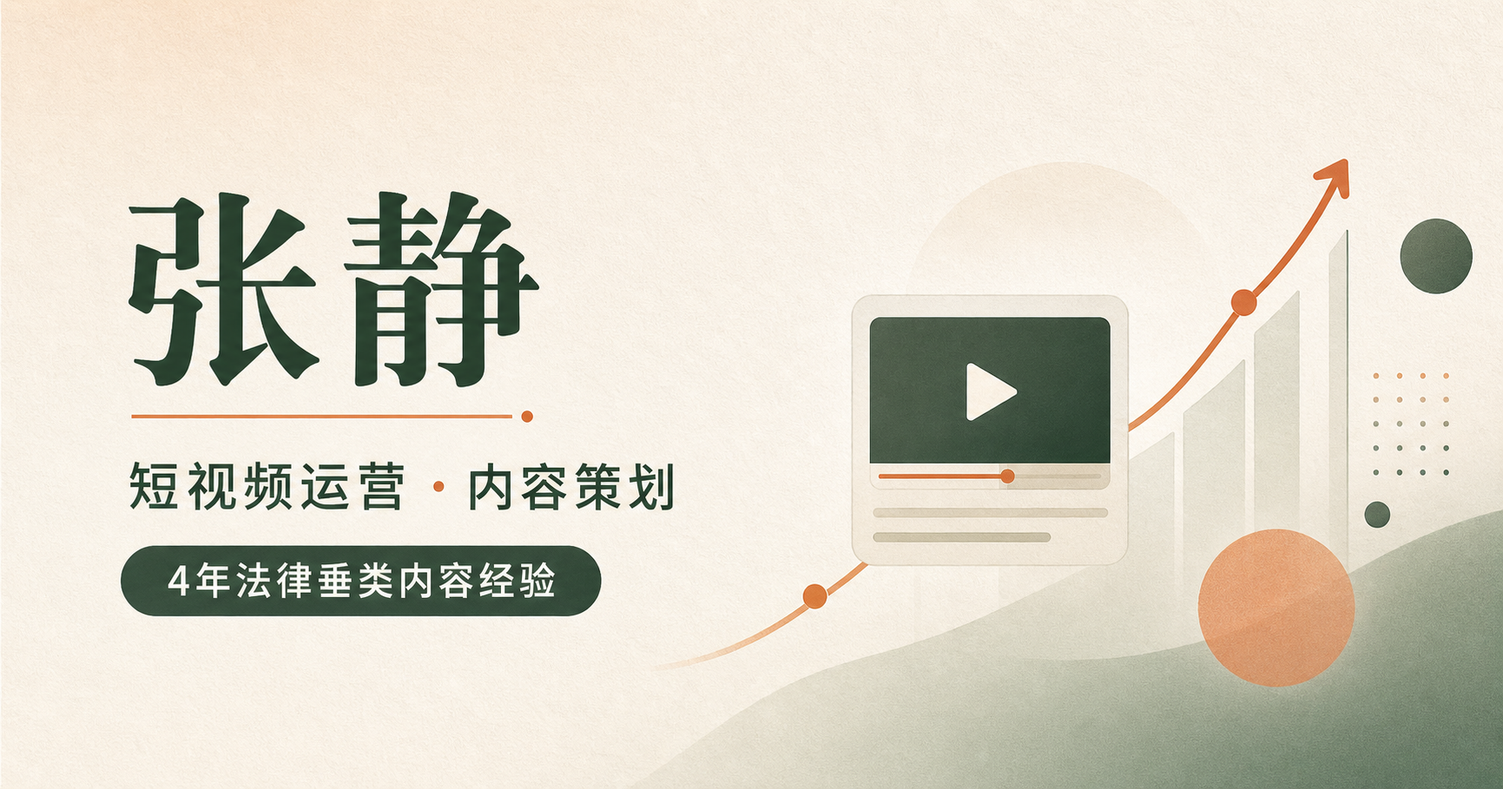
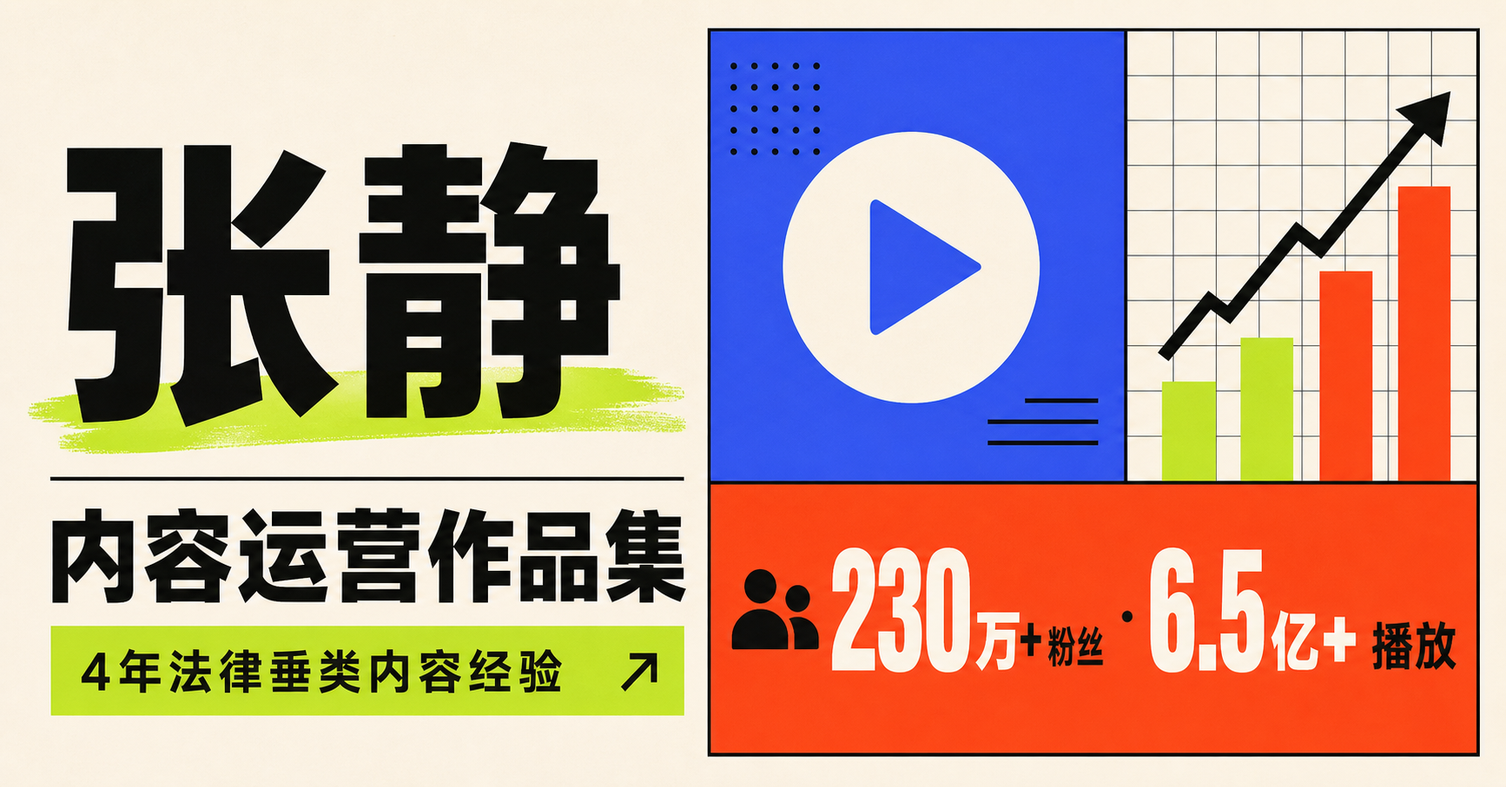
更新内容创作者作品集首页

diff --git a/index.html b/index.html
@@ -1,48 +1,2 @@
-<!doctype html>
-<html lang="zh-CN">
-<head>
-  <meta charset="utf-8">
-  <meta name="viewport" content="width=device-width,initial-scale=1">
-  <meta name="description" content="张静｜4年短视频运营与内容策划经验，专注法律垂类IP孵化、内容增长与转化。">
-  <link rel="canonical" href="https://1968532942-collab.github.io/zhangjing-resume/">
-  <meta property="og:type" content="website">
-  <meta property="og:locale" content="zh_CN">
-  <meta property="og:title" content="张静｜短视频运营 · 内容策划">
-  <meta property="og:description" content="4年法律垂类内容经验｜IP孵化、内容增长与业务转化">
-  <meta property="og:url" content="https://1968532942-collab.github.io/zhangjing-resume/">
-  <meta property="og:image" content="https://1968532942-collab.github.io/zhangjing-resume/share-card.png">
-  <meta property="og:image:width" content="1732">
-  <meta property="og:image:height" content="910">
-  <meta property="og:image:alt" content="张静｜短视频运营 · 内容策划">
-  <meta name="twitter:card" content="summary_large_image">
-  <meta name="twitter:title" content="张静｜短视频运营 · 内容策划">
-  <meta name="twitter:description" content="4年法律垂类内容经验｜IP孵化、内容增长与业务转化">
-  <meta name="twitter:image" content="https://1968532942-collab.github.io/zhangjing-resume/share-card.png">
-  <title>张静｜短视频运营 · 内容策划</title>
-  <style>
-    :root{--paper:#f4eee3;--ink:#1d211d;--muted:#686357;--green:#23352c;--orange:#c45d32;--orange-dark:#91401f;--card:rgba(255,251,244,.8);--line:rgba(40,33,25,.1);--shadow:0 18px 48px rgba(55,36,18,.09)}
-    *{box-sizing:border-box}html{scroll-behavior:smooth;scroll-padding-top:96px}body{margin:0;color:var(--ink);background:radial-gradient(circle at 8% 2%,rgba(196,93,50,.14),transparent 27rem),radial-gradient(circle at 94% 20%,rgba(35,53,44,.11),transparent 25rem),linear-gradient(180deg,#f7f1e8 0%,var(--paper) 48%,#eee3d3 100%);font-family:"PingFang SC","Microsoft YaHei",system-ui,sans-serif;line-height:1.75}a{color:inherit;text-decoration:none}.shell{width:min(calc(100% - 40px),1160px);margin:auto}
-    .topbar{position:sticky;top:0;z-index:20;border-bottom:1px solid rgba(36,43,37,.07);background:rgba(247,241,232,.86);backdrop-filter:blur(18px)}.nav-inner{min-height:76px;display:flex;align-items:center;justify-content:space-between;gap:28px}.brand{display:flex;align-items:center;gap:13px}.brand-mark{display:grid;place-items:center;width:44px;height:44px;border-radius:50%;background:linear-gradient(145deg,var(--orange),#e3a06e);color:#fff9f1;box-shadow:0 10px 25px rgba(196,93,50,.24);font-weight:800}.brand strong,.brand small{display:block}.brand strong{letter-spacing:.08em}.brand small{color:var(--muted);font-size:.75rem;margin-top:-3px}nav{display:flex;gap:28px;color:var(--muted);font-size:.92rem}nav a:hover{color:var(--orange-dark)}
-    .hero{padding:54px 0 22px}.hero-card{position:relative;overflow:hidden;padding:62px 58px 30px;border:1px solid var(--line);border-radius:40px;background:linear-gradient(145deg,rgba(255,252,246,.96),rgba(244,233,217,.84));box-shadow:0 28px 76px rgba(55,36,18,.13)}.hero-card:before{content:"ZHANG JING";position:absolute;right:-12px;top:18px;color:rgba(35,53,44,.045);font-size:clamp(4rem,10vw,8.5rem);line-height:.9;font-weight:900}.eyebrow,.kicker{position:relative;z-index:1;color:var(--orange-dark);font-size:.76rem;font-weight:800;letter-spacing:.14em}.eyebrow{display:inline-flex;padding:8px 15px;border-radius:999px;background:rgba(196,93,50,.08);border:1px solid rgba(196,93,50,.16)}h1,h2,blockquote{font-family:"Songti SC","STSong",serif}h1{position:relative;z-index:1;max-width:900px;margin:24px 0 0;font-size:clamp(2.7rem,6vw,4.7rem);line-height:1.14;letter-spacing:-.045em}h1 em{color:var(--orange);font-style:normal}.hero-copy{position:relative;z-index:1;max-width:720px;margin:24px 0 0;color:var(--muted);font-size:1.08rem}.hero-line{position:relative;z-index:1;margin:17px 0 0;font:600 clamp(1.14rem,2vw,1.45rem)/1.6 "Songti SC",serif;color:var(--green)}.hero-line b{color:var(--orange)}.actions{position:relative;z-index:1;display:flex;flex-wrap:wrap;gap:13px;margin-top:29px}.button{min-height:52px;display:inline-flex;align-items:center;justify-content:center;padding:0 24px;border-radius:999px;font-weight:700}.primary{color:#fff8ef;background:var(--green)}.secondary{border:1px solid rgba(35,53,44,.18);background:rgba(255,255,255,.38);color:var(--green)}.stats{position:relative;z-index:1;display:grid;grid-template-columns:repeat(4,1fr);gap:12px;margin-top:43px}.stats div{padding:18px;border:1px solid rgba(35,53,44,.07);border-radius:17px;background:rgba(255,255,255,.46)}.stats strong{display:block;color:var(--green);font-family:ui-monospace,Consolas,monospace;font-size:1.42rem}.stats span{display:block;margin-top:3px;color:var(--muted);font-size:.82rem}
-    .section{padding:72px 0 0}.section-head{display:flex;align-items:end;justify-content:space-between;gap:30px;margin-bottom:27px}.section-head h2,.education h2,.contact h2{margin:8px 0 0;font-size:clamp(1.9rem,3.5vw,2.8rem);line-height:1.22}.section-head>p{max-width:510px;margin:0;color:var(--muted)}.grid3{display:grid;grid-template-columns:repeat(3,1fr);gap:18px}.card{border:1px solid var(--line);border-radius:27px;background:var(--card);box-shadow:var(--shadow)}.capability{padding:30px}.number{color:var(--orange);font:700 .78rem/1 ui-monospace,monospace}.capability h3{margin:17px 0 0;font-size:1.32rem}.capability p,.case>p,.timeline p{color:var(--muted)}.tags{display:flex;flex-wrap:wrap;gap:7px;margin-top:20px}.tags span,.label{padding:6px 10px;border-radius:999px;background:rgba(196,93,50,.08);color:var(--orange-dark);font-size:.76rem;font-weight:700}
-    .experience{display:grid;grid-template-columns:1.15fr .85fr;gap:18px}.timeline{padding:35px}.timeline article{display:grid;grid-template-columns:135px 1fr;gap:22px;padding:25px 0;border-top:1px solid var(--line)}.timeline article:first-child{padding-top:0;border-top:0}.timeline time{color:var(--orange);font:700 .79rem/1.6 ui-monospace,monospace}.timeline h3{margin:0;font-size:1.1rem}.role{color:var(--orange-dark);font-size:.84rem;font-weight:700}.timeline p{margin:8px 0 0;font-size:.94rem}.quote{display:flex;flex-direction:column;justify-content:space-between;padding:35px;border-radius:27px;color:#f8efe2;background:linear-gradient(145deg,#263a31,#1d2c25)}.quote>span{color:#e9aa82;font-size:.78rem;font-weight:800;letter-spacing:.13em}.quote blockquote{margin:40px 0;font-size:clamp(1.5rem,2.4vw,2.05rem);line-height:1.65}.quote p{color:rgba(248,239,226,.58);font-size:.84rem;letter-spacing:.13em}
-    .cases{display:grid;grid-template-columns:repeat(2,1fr);gap:18px}.case{padding:31px}.case.featured{grid-column:1/-1;padding:38px;color:#f8efe2;background:linear-gradient(135deg,rgba(35,53,44,.98),rgba(44,63,53,.94))}.case h3{margin:17px 0 0;font-size:1.48rem}.metrics{display:flex;flex-wrap:wrap;gap:8px;margin-top:21px}.metrics strong{padding:10px 13px;border-radius:12px;background:rgba(255,255,255,.5);color:var(--green);font-size:.82rem}.featured .metrics strong{color:#fff3e7;background:rgba(255,255,255,.08)}.featured>p{color:rgba(248,239,226,.68)}
-    .education{display:grid;grid-template-columns:1.15fr .85fr;gap:18px}.education>div{padding:35px;border-radius:27px;box-shadow:var(--shadow)}.schools{background:var(--card);border:1px solid var(--line)}.school-list{display:grid;gap:18px;margin-top:25px}.school-list div{padding-top:18px;border-top:1px solid var(--line)}.school-list time{color:var(--orange);font:700 .8rem ui-monospace,monospace}.school-list h3,.school-list p{margin:4px 0 0}.school-list p{color:var(--muted)}.awards{background:linear-gradient(145deg,rgba(196,93,50,.95),#a64827);color:#fff8ef}.awards li{margin-top:15px}
-    .contact{display:grid;grid-template-columns:1.1fr .9fr;gap:34px;margin:72px 0 78px;padding:42px;border:1px solid var(--line);border-radius:32px;background:linear-gradient(135deg,rgba(255,251,244,.94),rgba(242,228,209,.88));box-shadow:0 24px 62px rgba(55,36,18,.12)}.contact p{color:var(--muted)}.contact-link{display:block;margin-top:35px;padding:15px 18px;border-radius:15px;color:#f9f0e5;background:var(--green)}.contact-link span,.contact-link strong{display:block}.contact-link span{color:rgba(249,240,229,.58);font-size:.7rem;letter-spacing:.12em}.privacy{font-size:.86rem}footer{padding:0 20px 34px;text-align:center;color:var(--muted);font-size:.82rem}
-    @media(max-width:900px){.stats{grid-template-columns:repeat(2,1fr)}.grid3,.experience,.education,.contact,.cases{grid-template-columns:1fr}.featured{grid-column:auto!important}.section-head{align-items:start;flex-direction:column}}
-    @media(max-width:660px){.shell{width:min(calc(100% - 24px),1160px)}.topbar{position:static}.nav-inner{padding:12px 0;align-items:flex-start;flex-direction:column;gap:12px}nav{width:100%;gap:0;justify-content:space-between;font-size:.79rem}.hero{padding-top:20px}.hero-card{padding:34px 23px 22px;border-radius:28px}h1{font-size:2.35rem}.stats div,.timeline,.quote,.case,.education>div{padding:22px}.timeline article{grid-template-columns:1fr;gap:7px}.contact{margin:52px 0;padding:26px 22px}}
-  </style>
-</head>
-<body>
-  <header class="topbar"><div class="shell nav-inner"><a class="brand" href="#top"><span class="brand-mark">静</span><span><strong>张静</strong><small>短视频运营 · 内容策划</small></span></a><nav><a href="#about">关于我</a><a href="#experience">工作经历</a><a href="#cases">代表案例</a><a href="#contact">联系我</a></nav></div></header>
-  <main id="top" class="shell">
-    <section class="hero"><div class="hero-card"><span class="eyebrow">法律垂类内容 × IP 孵化 × 增长转化</span><h1>把专业内容，做成<br><em>看得懂、记得住、能转化</em>的短视频。</h1><p class="hero-copy">我是张静，一名拥有 4 年经验的短视频运营与内容策划。长期深耕法律 IP 赛道，服务过检察院、头部律所与法律科技平台。</p><p class="hero-line">我擅长的不只是做内容，而是让内容成为 <b>持续增长的业务系统</b>。</p><div class="actions"><a class="button primary" href="#cases">查看代表案例</a><a class="button secondary" href="mailto:1968532942@qq.com">发邮件联系我</a></div><div class="stats"><div><strong>4 年</strong><span>法律垂类运营经验</span></div><div><strong>230 万+</strong><span>主导账号累计粉丝</span></div><div><strong>6.5 亿+</strong><span>内容总播放量</span></div><div><strong>1000+</strong><span>法律咨询转化</span></div></div></div></section>
-    <section id="about" class="section"><div class="section-head"><div><span class="kicker">WHAT I DO</span><h2>我能为团队带来什么</h2></div><p>从一个选题到一套增长机制，我习惯用内容解决真实业务问题。</p></div><div class="grid3"><article class="card capability"><span class="number">01</span><h3>IP 账号孵化</h3><p>从定位、选题、脚本到拍摄与运营，跑通法律垂类 IP 的完整内容链路，并沉淀可复用的起号 SOP。</p><div class="tags"><span>账号定位</span><span>内容选题</span><span>爆款复盘</span></div></article><article class="card capability"><span class="number">02</span><h3>内容策划与创作</h3><p>兼具公众号长文与短视频脚本经验，能把复杂的法律议题转译成准确、易懂、有传播力的内容。</p><div class="tags"><span>短视频脚本</span><span>公众号</span><span>节点策划</span></div></article><article class="card capability"><span class="number">03</span><h3>运营与转化</h3><p>围绕流量、增粉、线索与成交建立数据体系，让内容不仅被看见，也能持续带来真实业务结果。</p><div class="tags"><span>数据分析</span><span>直播运营</span><span>客资转化</span></div></article></div></section>
-    <section id="experience" class="section"><div class="section-head"><div><span class="kicker">EXPERIENCE</span><h2>工作经历</h2></div><p>在机构传播、平台运营与商业转化之间，持续积累对法律内容的完整理解。</p></div><div class="experience"><div class="card timeline"><article><time>2024.03 — 至今</time><div><h3>成都市青白江区人民检察院</h3><span class="role">宣传策划</span><p>负责微信、微博及普法短视频、漫画、文章与节点专题策划。编剧作品获川渝法治微视频大赛一等奖；策划漫画获第五届四川互联网辟谣优秀作品奖。</p></div></article><article><time>2023.03 — 2024.01</time><div><h3>成都华律网络服务有限公司</h3><span class="role">短视频运营</span><p>运营抖音、快手、视频号、今日头条账号矩阵，从 0 到 1 搭建法律直播业务；每月产出 120 条内容，筛选有效客资 1600+ 条，月均成交额 20 万。</p></div></article><article><time>2021.07 — 2023.02</time><div><h3>北京即明律师事务所</h3><span class="role">短视频内容运营</span><p>主导征地拆迁类律师 IP 的内容选题、视觉呈现与数据复盘，对账号流量、增粉与线索转化负责。</p></div></article></div><aside class="quote"><span>我的工作方法</span><blockquote>“先找到用户愿意停下来的表达，再用数据验证它，最后把偶然的爆款沉淀成稳定的方法。”</blockquote><p>定位 · 内容 · 运营 · 转化</p></aside></div></section>
-    <section id="cases" class="section"><div class="section-head"><div><span class="kicker">SELECTED WORK</span><h2>代表案例</h2></div><p>用结果说明内容能力，也用方法解释结果为什么可以复制。</p></div><div class="cases"><article class="card case featured"><span class="label">全网 140 万粉丝</span><h3>征地拆迁马丹凤律师</h3><div class="metrics"><strong>运营期全渠道增粉 55 万</strong><strong>年度总播放量 4.5 亿</strong><strong>11 条千万播放视频</strong></div><p>抖音从 0 起步突破 30 万粉丝，单月最高增粉 10 万；累计打造百万播放视频 84 条、十万播放视频 154 条。</p></article><article class="card case"><span class="label">全网 80 万粉丝</span><h3>征地拆迁向娟律师</h3><div class="metrics"><strong>快手单月增粉 10 万</strong><strong>单月播放量 3000 万+</strong></div><p>快速验证账号定位与内容模型，单条视频最高播放量达千万，形成可持续复用的选题方法。</p></article><article class="card case"><span class="label">刑事法律 IP</span><h3>星耀刑事团</h3><div class="metrics"><strong>全网粉丝突破 10 万</strong><strong>月播放量 1000 万+</strong></div><p>覆盖文案、拍摄、发布与复盘，通过内容与直播协同，为法律咨询业务持续获取有效线索。</p></article></div></section>
-    <section class="section education"><div class="schools"><span class="kicker">EDUCATION</span><h2>教育背景</h2><div class="school-list"><div><time>2017 — 2021</time><h3>南京邮电大学</h3><p>广告学 · 本科（双一流）</p></div><div><time>2019 — 2020</time><h3>南京师范大学</h3><p>新闻学 · 交换生（211）</p></div></div></div><div class="awards"><span class="kicker" style="color:#ffe0cc">内容荣誉</span><ul><li>川渝法治微视频大赛一等奖</li><li>第五届四川互联网辟谣优秀作品奖</li><li>作品曾被《检察日报》等媒体刊登或转载</li></ul></div></section>
-    <section id="contact" class="contact"><div><span class="kicker">LET'S TALK</span><h2>期待和认真做内容的团队，一起创造下一条好作品。</h2><p>求职方向：内容运营 / 短视频运营 · 现居成都</p></div><div><a class="contact-link" href="mailto:1968532942@qq.com"><span>邮箱</span><strong>1968532942@qq.com</strong></a><p class="privacy">为保护隐私，电话与微信可在沟通后提供。</p></div></section>
-  </main>
-  <footer>© 2026 张静 · 内容运营 / 短视频运营</footer>
-</body>
-</html>
+<!DOCTYPE html><html lang="zh-CN"><head><meta charSet="utf-8"/><meta name="viewport" content="width=device-width, initial-scale=1"/><link rel="stylesheet" href="./assets/index-DfWEYB3_.css" data-rsc-css-href="./assets/index-DfWEYB3_.css" data-precedence="vite-rsc/importer-resources"/><link rel="modulepreload" href="./assets/layout-segment-context-CMLPr4qb.js" crossorigin=""/><link rel="modulepreload" href="./assets/rolldown-runtime-S-ySWqyJ.js" crossorigin=""/><link rel="modulepreload" href="./assets/index-BUhafJ2m.js" crossorigin=""/><link rel="modulepreload" href="./assets/framework-XU8gKkFC.js" crossorigin=""/><title>张静｜内容运营作品集</title><meta name="description" content="张静的内容运营作品集：4 年法律垂类短视频运营经验，专注内容策划、IP 孵化与增长转化。"/><meta property="og:title" content="张静｜内容运营作品集"/><meta property="og:description" content="4年法律垂类内容经验｜230万+粉丝 · 6.5亿+播放"/><meta property="og:type" content="website"/><meta property="og:locale" content="zh_CN"/><meta property="og:image" content="https://1968532942-collab.github.io/zhangjing-resume/share-card.png"/><meta property="og:image:width" content="1732"/><meta property="og:image:height" content="909"/><meta property="og:image:alt" content="张静｜内容运营作品集"/><meta name="twitter:card" content="summary_large_image"/><meta name="twitter:title" content="张静｜内容运营作品集"/><meta name="twitter:description" content="4年法律垂类内容经验｜230万+粉丝 · 6.5亿+播放"/><meta name="twitter:image" content="https://1968532942-collab.github.io/zhangjing-resume/share-card.png"/><script>self.__VINEXT_RSC_PARAMS__={}</script><script>self.__VINEXT_RSC_NAV__={"pathname":"/","searchParams":[]}</script><link rel="modulepreload" href="./assets/index-BUhafJ2m.js" />
+</head><body><header class="topbar"><div class="shell nav-inner"><a class="brand" href="#top"><span class="brand-dot"></span>张静 / CONTENT PORTFOLIO</a><nav aria-label="主导航"><a href="#work">项目案例</a><a href="#method">能力方法</a><a href="#experience">工作经历</a><a class="nav-contact" href="#contact">联系我 ↗</a></nav></div></header><main id="top"><section class="hero shell"><div class="hero-copy"><span class="overline">SHORT VIDEO · CONTENT STRATEGY · GROWTH</span><h1>把复杂内容<br/>做成<em>会传播的作品</em></h1><p>你好，我是张静。4 年短视频运营与内容策划经验，长期深耕法律垂类 IP，擅长从定位、选题到增长转化，把一次爆款变成一套稳定的方法。</p><div class="hero-actions"><a class="primary-button" href="#work">看我的代表项目 <span>↓</span></a><a class="text-button" href="mailto:1968532942@qq.com">聊聊合作 ↗</a></div></div><div class="hero-board" aria-label="核心成绩"><div class="board-title"><span>CREATOR</span><strong>内容运营<br/>作品集</strong><i>2026</i></div><div class="board-stats"><div><strong>230<sup>万+</sup></strong><span>主导账号累计粉丝</span></div><div><strong>6.5<sup>亿+</sup></strong><span>内容总播放量</span></div><div><strong>4<sup>年</sup></strong><span>法律垂类经验</span></div><div><strong>1000<sup>+</sup></strong><span>咨询转化</span></div></div><span class="spark spark-one">✦</span><span class="spark spark-two">✦</span></div></section><section class="marquee" aria-label="核心能力"><div>账号定位 ✦ 爆款选题 ✦ 短视频脚本 ✦ 拍摄执行 ✦ 数据复盘 ✦ 直播运营 ✦ 业务转化 ✦</div></section><section id="work" class="section shell"><div class="section-title"><div><span>01 / SELECTED WORK</span><h2>代表项目</h2></div><p>不只展示结果，也说清楚结果是怎么发生的。抖音作品链接将在下一版补入。</p></div><div class="project-list"><article class="project-card orange"><div class="project-visual"><span class="project-number">01</span><div class="phone-frame"><div class="phone-top"></div><div class="play-mark">▶</div><span>VIDEO<br/>COMING SOON</span></div><span class="project-category">律师 IP 孵化</span></div><div class="project-content"><div><span class="mini-label">CASE STUDY <!-- -->01</span><h3>征地拆迁马丹凤律师</h3><h4>从 0 到 30 万粉丝</h4></div><div class="metric-row"><strong>全网 140 万粉丝</strong><strong>年度播放 4.5 亿</strong><strong>11 条千万播放</strong></div><p>完成账号定位、选题策划、脚本生产与数据复盘，运营期全渠道增粉 55 万，累计打造 84 条百万播放视频。</p><span class="pending-link">视频链接待补充 <b>↗</b></span></div></article><article class="project-card blue"><div class="project-visual"><span class="project-number">02</span><div class="phone-frame"><div class="phone-top"></div><div class="play-mark">▶</div><span>VIDEO<br/>COMING SOON</span></div><span class="project-category">账号增长实验</span></div><div class="project-content"><div><span class="mini-label">CASE STUDY <!-- -->02</span><h3>征地拆迁向娟律师</h3><h4>单月播放 3000 万+</h4></div><div class="metric-row"><strong>快手月增粉 10 万</strong><strong>抖音一个月破万粉</strong><strong>单条播放破千万</strong></div><p>快速验证账号定位与内容模型，把高反馈选题沉淀成可持续复用的生产方法。</p><span class="pending-link">视频链接待补充 <b>↗</b></span></div></article><article class="project-card lime"><div class="project-visual"><span class="project-number">03</span><div class="phone-frame"><div class="phone-top"></div><div class="play-mark">▶</div><span>VIDEO<br/>COMING SOON</span></div><span class="project-category">多平台内容矩阵</span></div><div class="project-content"><div><span class="mini-label">CASE STUDY <!-- -->03</span><h3>星耀刑事团</h3><h4>内容 × 直播协同转化</h4></div><div class="metric-row"><strong>全网粉丝 10 万+</strong><strong>月播放 1000 万+</strong><strong>多平台矩阵运营</strong></div><p>覆盖文案、拍摄、发布与复盘，通过内容和直播协同，为法律咨询业务持续获取有效线索。</p><span class="pending-link">视频链接待补充 <b>↗</b></span></div></article></div></section><section id="method" class="section method-section"><div class="shell"><div class="section-title light"><div><span>02 / HOW I WORK</span><h2>我的内容方法</h2></div><p>让内容既有传播力，也能对业务结果负责。</p></div><div class="method-grid"><article><b>01</b><h3>找准定位</h3><p>拆解受众、场景与竞争内容，找到账号最值得被记住的表达。</p><span>POSITIONING</span></article><article><b>02</b><h3>批量产出</h3><p>建立选题库、脚本模板与拍摄流程，让稳定生产不依赖灵感。</p><span>PRODUCTION</span></article><article><b>03</b><h3>数据验证</h3><p>从完播、互动、增粉和线索中识别有效内容，快速迭代。</p><span>VALIDATION</span></article><article><b>04</b><h3>沉淀增长</h3><p>把偶然爆款沉淀为可复制的方法，并连接直播与业务转化。</p><span>GROWTH</span></article></div></div></section><section id="experience" class="section shell"><div class="section-title"><div><span>03 / EXPERIENCE</span><h2>工作经历</h2></div><p>机构传播、内容平台与商业转化，构成了我理解内容的三个视角。</p></div><div class="experience-list"><article><span class="experience-index">0<!-- -->1</span><time>2024.03 — 至今</time><div><h3>成都市青白江区人民检察院</h3><strong>宣传策划</strong></div><p>负责普法短视频、漫画、文章与节点专题策划。编剧作品获川渝法治微视频大赛一等奖，策划漫画获四川互联网辟谣优秀作品奖。</p></article><article><span class="experience-index">0<!-- -->2</span><time>2023.03 — 2024.01</time><div><h3>成都华律网络服务有限公司</h3><strong>短视频运营</strong></div><p>运营抖音、快手、视频号、今日头条矩阵，从 0 到 1 搭建直播业务；月产 120 条内容，筛选有效客资 1600+ 条，月均成交额 20 万。</p></article><article><span class="experience-index">0<!-- -->3</span><time>2021.07 — 2023.02</time><div><h3>北京即明律师事务所</h3><strong>短视频内容运营</strong></div><p>主导律师 IP 的选题、脚本、视觉呈现与数据复盘，对流量、增粉和线索转化负责，并建立周期性数据分析体系。</p></article></div></section><section class="section shell extras"><div class="education"><span>04 / EDUCATION</span><h2>教育背景</h2><div><strong>南京邮电大学</strong><p>广告学 · 本科（双一流）</p><time>2017 — 2021</time></div><div><strong>南京师范大学</strong><p>新闻学 · 交换生（211）</p><time>2019 — 2020</time></div></div><div class="awards"><span>CONTENT AWARDS</span><h2>作品荣誉</h2><ul><li>川渝法治微视频大赛一等奖</li><li>四川互联网辟谣优秀作品奖</li><li>作品被《检察日报》等媒体刊登或转载</li></ul></div></section><section id="contact" class="contact-section"><div class="shell contact-inner"><div><span>LET&#x27;S MAKE SOMETHING GOOD</span><h2>期待和认真做内容的团队，<br/>一起创造下一条好作品。</h2></div><div class="contact-card"><span>求职方向</span><strong>内容运营 / 短视频运营</strong><span>所在城市</span><strong>成都</strong><a href="mailto:1968532942@qq.com">1968532942@qq.com ↗</a><p>电话与微信可在沟通后提供</p></div></div></section></main><footer><div class="shell"><span>© 2026 ZHANG JING</span><span>CONTENT CREATOR PORTFOLIO</span></div></footer><script id="_R_">import("/assets/index-BUhafJ2m.js")</script></body></html><script>self.__VINEXT_RSC_CHUNKS__=self.__VINEXT_RSC_CHUNKS__||[];self.__VINEXT_RSC_CHUNKS__.push("2:I[\"8a1c26e77cc3\",[],\"Children\",1]\n3:I[\"e562e7309659\",[],\"LayoutSegmentProvider\",1]\n4:I[\"8a1c26e77cc3\",[],\"Slot\",1]\n5:I[\"d041429ec63f\",[],\"RedirectBoundary\",1]\n:HL[\"/assets/index-DfWEYB3_.css\",\"style\"]\n")</script><script>self.__VINEXT_RSC_CHUNKS__=self.__VINEXT_RSC_CHUNKS__||[];self.__VINEXT_RSC_CHUNKS__.push("0:{\"__route\":\"route:/\",\"__interceptionContext\":null,\"__layoutIds\":[\"layout:/\"],\"__rootLayout\":\"/\",\"page:/\":\"$L1\",\"layout:/\":[[[[\"$\",\"link\",\"css:/assets/index-DfWEYB3_.css\",{\"rel\":\"stylesheet\",\"precedence\":\"vite-rsc/importer-resources\",\"href\":\"/assets/index-DfWEYB3_.css\",\"data-rsc-css-href\":\"/assets/index-DfWEYB3_.css\"}],\"$undefined\"],[\"$\",\"html\",null,{\"lang\":\"zh-CN\",\"children\":[\"$\",\"body\",null,{\"children\":[\"$\",\"$L2\",null,{}]}]}]],null],\"route:/\":[[[\"$\",\"meta\",null,{\"charSet\":\"utf-8\"}],[[\"$\",\"title\",\"0\",{\"children\":\"张静｜内容运营作品集\"}],[\"$\",\"meta\",\"1\",{\"name\":\"description\",\"content\":\"张静的内容运营作品集：4 年法律垂类短视频运营经验，专注内容策划、IP 孵化与增长转化。\"}],[\"$\",\"meta\",\"2\",{\"property\":\"og:title\",\"content\":\"张静｜内容运营作品集\"}],[\"$\",\"meta\",\"3\",{\"property\":\"og:description\",\"content\":\"4年法律垂类内容经验｜230万+粉丝 · 6.5亿+播放\"}],[\"$\",\"meta\",\"4\",{\"property\":\"og:type\",\"content\":\"website\"}],[\"$\",\"meta\",\"5\",{\"property\":\"og:locale\",\"content\":\"zh_CN\"}],[\"$\",\"meta\",\"6\",{\"property\":\"og:image\",\"content\":\"https://zhangjing-content-resume.airy-cream-1573.chatgpt.site/og.png\"}],[\"$\",\"meta\",\"7\",{\"property\":\"og:image:width\",\"content\":\"1732\"}],[\"$\",\"meta\",\"8\",{\"property\":\"og:image:height\",\"content\":\"909\"}],[\"$\",\"meta\",\"9\",{\"property\":\"og:image:alt\",\"content\":\"张静｜内容运营作品集\"}],[\"$\",\"meta\",\"10\",{\"name\":\"twitter:card\",\"content\":\"summary_large_image\"}],[\"$\",\"meta\",\"11\",{\"name\":\"twitter:title\",\"content\":\"张静｜内容运营作品集\"}],[\"$\",\"meta\",\"12\",{\"name\":\"twitter:description\",\"content\":\"4年法律垂类内容经验｜230万+粉丝 · 6.5亿+播放\"}],[\"$\",\"meta\",\"13\",{\"name\":\"twitter:image\",\"content\":\"https://zhangjing-content-resume.airy-cream-1573.chatgpt.site/og.png\"}]],[[\"$\",\"meta\",\"0\",{\"name\":\"viewport\",\"content\":\"width=device-width, initial-scale=1\"}]]],[\"$\",\"$L3\",null,{\"segmentMap\":{\"children\":[]},\"children\":[\"$\",\"$L4\",null,{\"id\":\"layout:/\",\"parallelSlots\":\"$undefined\",\"children\":[\"$\",\"$L5\",null,{\"children\":[\"$\",\"$L3\",null,{\"segmentMap\":{\"children\":[]},\"children\":[\"$\",\"$L4\",null,{\"id\":\"page:/\"}]}]}]}]}]],\"__layoutFlags\":{\"layout:/\":\"s\"},\"__artifactCompatibility\":{\"schemaVersion\":1,\"graphVersion\":\"app-route-graph:4uhn5s1wvoptc\",\"deploymentVersion\":\"3ba9003f-5116-42fe-b882-d2cbb6091775\",\"appElementsSchemaVersion\":1,\"rscPayloadSchemaVersion\":1,\"rootBoundaryId\":\"/\",\"renderEpoch\":null}}\n")</script><script>self.__VINEXT_RSC_CHUNKS__=self.__VINEXT_RSC_CHUNKS__||[];self.__VINEXT_RSC_CHUNKS__.push("1:[[\"$\",\"header\",null,{\"className\":\"topbar\",\"children\":[\"$\",\"div\",null,{\"className\":\"shell nav-inner\",\"children\":[[\"$\",\"a\",null,{\"className\":\"brand\",\"href\":\"#top\",\"children\":[[\"$\",\"span\",null,{\"className\":\"brand-dot\"}],\"张静 / CONTENT PORTFOLIO\"]}],[\"$\",\"nav\",null,{\"aria-label\":\"主导航\",\"children\":[[\"$\",\"a\",null,{\"href\":\"#work\",\"children\":\"项目案例\"}],[\"$\",\"a\",null,{\"href\":\"#method\",\"children\":\"能力方法\"}],[\"$\",\"a\",null,{\"href\":\"#experience\",\"children\":\"工作经历\"}],[\"$\",\"a\",null,{\"className\":\"nav-contact\",\"href\":\"#contact\",\"children\":\"联系我 ↗\"}]]}]]}]}],[\"$\",\"main\",null,{\"id\":\"top\",\"children\":[[\"$\",\"section\",null,{\"className\":\"hero shell\",\"children\":[[\"$\",\"div\",null,{\"className\":\"hero-copy\",\"children\":[[\"$\",\"span\",null,{\"className\":\"overline\",\"children\":\"SHORT VIDEO · CONTENT STRATEGY · GROWTH\"}],[\"$\",\"h1\",null,{\"children\":[\"把复杂内容\",[\"$\",\"br\",null,{}],\"做成\",[\"$\",\"em\",null,{\"children\":\"会传播的作品\"}]]}],[\"$\",\"p\",null,{\"children\":\"你好，我是张静。4 年短视频运营与内容策划经验，长期深耕法律垂类 IP，擅长从定位、选题到增长转化，把一次爆款变成一套稳定的方法。\"}],[\"$\",\"div\",null,{\"className\":\"hero-actions\",\"children\":[[\"$\",\"a\",null,{\"className\":\"primary-button\",\"href\":\"#work\",\"children\":[\"看我的代表项目 \",[\"$\",\"span\",null,{\"children\":\"↓\"}]]}],[\"$\",\"a\",null,{\"className\":\"text-button\",\"href\":\"mailto:1968532942@qq.com\",\"children\":\"聊聊合作 ↗\"}]]}]]}],[\"$\",\"div\",null,{\"className\":\"hero-board\",\"aria-label\":\"核心成绩\",\"children\":[[\"$\",\"div\",null,{\"className\":\"board-title\",\"children\":[[\"$\",\"span\",null,{\"children\":\"CREATOR\"}],[\"$\",\"strong\",null,{\"children\":[\"内容运营\",[\"$\",\"br\",null,{}],\"作品集\"]}],[\"$\",\"i\",null,{\"children\":\"2026\"}]]}],[\"$\",\"div\",null,{\"className\":\"board-stats\",\"children\":[[\"$\",\"div\",null,{\"children\":[[\"$\",\"strong\",null,{\"children\":[\"230\",[\"$\",\"sup\",null,{\"children\":\"万+\"}]]}],[\"$\",\"span\",null,{\"children\":\"主导账号累计粉丝\"}]]}],[\"$\",\"div\",null,{\"children\":[[\"$\",\"strong\",null,{\"children\":[\"6.5\",[\"$\",\"sup\",null,{\"children\":\"亿+\"}]]}],[\"$\",\"span\",null,{\"children\":\"内容总播放量\"}]]}],[\"$\",\"div\",null,{\"children\":[[\"$\",\"strong\",null,{\"children\":[\"4\",[\"$\",\"sup\",null,{\"children\":\"年\"}]]}],[\"$\",\"span\",null,{\"children\":\"法律垂类经验\"}]]}],[\"$\",\"div\",null,{\"children\":[[\"$\",\"strong\",null,{\"children\":[\"1000\",[\"$\",\"sup\",null,{\"children\":\"+\"}]]}],[\"$\",\"span\",null,{\"children\":\"咨询转化\"}]]}]]}],[\"$\",\"span\",null,{\"className\":\"spark spark-one\",\"children\":\"✦\"}],[\"$\",\"span\",null,{\"className\":\"spark spark-two\",\"children\":\"✦\"}]]}]]}],[\"$\",\"section\",null,{\"className\":\"marquee\",\"aria-label\":\"核心能力\",\"children\":[\"$\",\"div\",null,{\"children\":\"账号定位 ✦ 爆款选题 ✦ 短视频脚本 ✦ 拍摄执行 ✦ 数据复盘 ✦ 直播运营 ✦ 业务转化 ✦\"}]}],[\"$\",\"section\",null,{\"id\":\"work\",\"className\":\"section shell\",\"children\":[[\"$\",\"div\",null,{\"className\":\"section-title\",\"children\":[[\"$\",\"div\",null,{\"children\":[[\"$\",\"span\",null,{\"children\":\"01 / SELECTED WORK\"}],[\"$\",\"h2\",null,{\"children\":\"代表项目\"}]]}],[\"$\",\"p\",null,{\"children\":\"不只展示结果，也说清楚结果是怎么发生的。抖音作品链接将在下一版补入。\"}]]}],[\"$\",\"div\",null,{\"className\":\"project-list\",\"children\":[[\"$\",\"article\",\"征地拆迁马丹凤律师\",{\"className\":\"project-card orange\",\"children\":[[\"$\",\"div\",null,{\"className\":\"project-visual\",\"children\":[[\"$\",\"span\",null,{\"className\":\"project-number\",\"children\":\"01\"}],[\"$\",\"div\",null,{\"className\":\"phone-frame\",\"children\":[[\"$\",\"div\",null,{\"className\":\"phone-top\"}],[\"$\",\"div\",null,{\"className\":\"play-mark\",\"children\":\"▶\"}],[\"$\",\"span\",null,{\"children\":[\"VIDEO\",[\"$\",\"br\",null,{}],\"COMING SOON\"]}]]}],[\"$\",\"span\",null,{\"className\":\"project-category\",\"children\":\"律师 IP 孵化\"}]]}],[\"$\",\"div\",null,{\"className\":\"project-content\",\"children\":[[\"$\",\"div\",null,{\"children\":[[\"$\",\"span\",null,{\"className\":\"mini-label\",\"children\":[\"CASE STUDY \",\"01\"]}],[\"$\",\"h3\",null,{\"children\":\"征地拆迁马丹凤律师\"}],[\"$\",\"h4\",null,{\"children\":\"从 0 到 30 万粉丝\"}]]}],[\"$\",\"div\",null,{\"className\":\"metric-row\",\"children\":[[\"$\",\"strong\",\"全网 140 万粉丝\",{\"children\":\"全网 140 万粉丝\"}],[\"$\",\"strong\",\"年度播放 4.5 亿\",{\"children\":\"年度播放 4.5 亿\"}],[\"$\",\"strong\",\"11 条千万播放\",{\"children\":\"11 条千万播放\"}]]}],[\"$\",\"p\",null,{\"children\":\"完成账号定位、选题策划、脚本生产与数据复盘，运营期全渠道增粉 55 万，累计打造 84 条百万播放视频。\"}],[\"$\",\"span\",null,{\"className\":\"pending-link\",\"children\":[\"视频链接待补充 \",[\"$\",\"b\",null,{\"children\":\"↗\"}]]}]]}]]}],[\"$\",\"article\",\"征地拆迁向娟律师\",{\"className\":\"project-card blue\",\"children\":[[\"$\",\"div\",null,{\"className\":\"project-visual\",\"children\":[[\"$\",\"span\",null,{\"className\":\"project-number\",\"children\":\"02\"}],[\"$\",\"div\",null,{\"className\":\"phone-frame\",\"children\":[[\"$\",\"div\",null,{\"className\":\"phone-top\"}],[\"$\",\"div\",null,{\"className\":\"play-mark\",\"children\":\"▶\"}],[\"$\",\"span\",null,{\"children\":[\"VIDEO\",[\"$\",\"br\",null,{}],\"COMING SOON\"]}]]}],[\"$\",\"span\",null,{\"className\":\"project-category\",\"children\":\"账号增长实验\"}]]}],[\"$\",\"div\",null,{\"className\":\"project-content\",\"children\":[[\"$\",\"div\",null,{\"children\":[[\"$\",\"span\",null,{\"className\":\"mini-label\",\"children\":[\"CASE STUDY \",\"02\"]}],[\"$\",\"h3\",null,{\"children\":\"征地拆迁向娟律师\"}],[\"$\",\"h4\",null,{\"children\":\"单月播放 3000 万+\"}]]}],[\"$\",\"div\",null,{\"className\":\"metric-row\",\"children\":[[\"$\",\"strong\",\"快手月增粉 10 万\",{\"children\":\"快手月增粉 10 万\"}],[\"$\",\"strong\",\"抖音一个月破万粉\",{\"children\":\"抖音一个月破万粉\"}],[\"$\",\"strong\",\"单条播放破千万\",{\"children\":\"单条播放破千万\"}]]}],[\"$\",\"p\",null,{\"children\":\"快速验证账号定位与内容模型，把高反馈选题沉淀成可持续复用的生产方法。\"}],[\"$\",\"span\",null,{\"className\":\"pending-link\",\"children\":[\"视频链接待补充 \",\"$L6\"]}]]}]]}],\"$L7\"]}]]}],\"$L8\",\"$L9\",\"$La\",\"$Lb\"]}],\"$Lc\"]\n")</script><script>self.__VINEXT_RSC_CHUNKS__=self.__VINEXT_RSC_CHUNKS__||[];self.__VINEXT_RSC_CHUNKS__.push("6:[\"$\",\"b\",null,{\"children\":\"↗\"}]\n7:[\"$\",\"article\",\"星耀刑事团\",{\"className\":\"project-card lime\",\"children\":[[\"$\",\"div\",null,{\"className\":\"project-visual\",\"children\":[[\"$\",\"span\",null,{\"className\":\"project-number\",\"children\":\"03\"}],[\"$\",\"div\",null,{\"className\":\"phone-frame\",\"children\":[[\"$\",\"div\",null,{\"className\":\"phone-top\"}],[\"$\",\"div\",null,{\"className\":\"play-mark\",\"children\":\"▶\"}],[\"$\",\"span\",null,{\"children\":[\"VIDEO\",[\"$\",\"br\",null,{}],\"COMING SOON\"]}]]}],[\"$\",\"span\",null,{\"className\":\"project-category\",\"children\":\"多平台内容矩阵\"}]]}],[\"$\",\"div\",null,{\"className\":\"project-content\",\"children\":[[\"$\",\"div\",null,{\"children\":[[\"$\",\"span\",null,{\"className\":\"mini-label\",\"children\":[\"CASE STUDY \",\"03\"]}],[\"$\",\"h3\",null,{\"children\":\"星耀刑事团\"}],[\"$\",\"h4\",null,{\"children\":\"内容 × 直播协同转化\"}]]}],[\"$\",\"div\",null,{\"className\":\"metric-row\",\"children\":[[\"$\",\"strong\",\"全网粉丝 10 万+\",{\"children\":\"全网粉丝 10 万+\"}],[\"$\",\"strong\",\"月播放 1000 万+\",{\"children\":\"月播放 1000 万+\"}],[\"$\",\"strong\",\"多平台矩阵运营\",{\"children\":\"多平台矩阵运营\"}]]}],[\"$\",\"p\",null,{\"children\":\"覆盖文案、拍摄、发布与复盘，通过内容和直播协同，为法律咨询业务持续获取有效线索。\"}],[\"$\",\"span\",null,{\"className\":\"pending-link\",\"children\":[\"视频链接待补充 \",[\"$\",\"b\",null,{\"children\":\"↗\"}]]}]]}]]}]\n")</script><script>self.__VINEXT_RSC_CHUNKS__=self.__VINEXT_RSC_CHUNKS__||[];self.__VINEXT_RSC_CHUNKS__.push("8:[\"$\",\"section\",null,{\"id\":\"method\",\"className\":\"section method-section\",\"children\":[\"$\",\"div\",null,{\"className\":\"shell\",\"children\":[[\"$\",\"div\",null,{\"className\":\"section-title light\",\"children\":[[\"$\",\"div\",null,{\"children\":[[\"$\",\"span\",null,{\"children\":\"02 / HOW I WORK\"}],[\"$\",\"h2\",null,{\"children\":\"我的内容方法\"}]]}],[\"$\",\"p\",null,{\"children\":\"让内容既有传播力，也能对业务结果负责。\"}]]}],[\"$\",\"div\",null,{\"className\":\"method-grid\",\"children\":[[\"$\",\"article\",null,{\"children\":[[\"$\",\"b\",null,{\"children\":\"01\"}],[\"$\",\"h3\",null,{\"children\":\"找准定位\"}],[\"$\",\"p\",null,{\"children\":\"拆解受众、场景与竞争内容，找到账号最值得被记住的表达。\"}],[\"$\",\"span\",null,{\"children\":\"POSITIONING\"}]]}],[\"$\",\"article\",null,{\"children\":[[\"$\",\"b\",null,{\"children\":\"02\"}],[\"$\",\"h3\",null,{\"children\":\"批量产出\"}],[\"$\",\"p\",null,{\"children\":\"建立选题库、脚本模板与拍摄流程，让稳定生产不依赖灵感。\"}],[\"$\",\"span\",null,{\"children\":\"PRODUCTION\"}]]}],[\"$\",\"article\",null,{\"children\":[[\"$\",\"b\",null,{\"children\":\"03\"}],[\"$\",\"h3\",null,{\"children\":\"数据验证\"}],[\"$\",\"p\",null,{\"children\":\"从完播、互动、增粉和线索中识别有效内容，快速迭代。\"}],[\"$\",\"span\",null,{\"children\":\"VALIDATION\"}]]}],[\"$\",\"article\",null,{\"children\":[[\"$\",\"b\",null,{\"children\":\"04\"}],[\"$\",\"h3\",null,{\"children\":\"沉淀增长\"}],[\"$\",\"p\",null,{\"children\":\"把偶然爆款沉淀为可复制的方法，并连接直播与业务转化。\"}],[\"$\",\"span\",null,{\"children\":\"GROWTH\"}]]}]]}]]}]}]\n")</script><script>self.__VINEXT_RSC_CHUNKS__=self.__VINEXT_RSC_CHUNKS__||[];self.__VINEXT_RSC_CHUNKS__.push("9:[\"$\",\"section\",null,{\"id\":\"experience\",\"className\":\"section shell\",\"children\":[[\"$\",\"div\",null,{\"className\":\"section-title\",\"children\":[[\"$\",\"div\",null,{\"children\":[[\"$\",\"span\",null,{\"children\":\"03 / EXPERIENCE\"}],[\"$\",\"h2\",null,{\"children\":\"工作经历\"}]]}],[\"$\",\"p\",null,{\"children\":\"机构传播、内容平台与商业转化，构成了我理解内容的三个视角。\"}]]}],[\"$\",\"div\",null,{\"className\":\"experience-list\",\"children\":[[\"$\",\"article\",\"成都市青白江区人民检察院\",{\"children\":[[\"$\",\"span\",null,{\"className\":\"experience-index\",\"children\":[\"0\",1]}],[\"$\",\"time\",null,{\"children\":\"2024.03 — 至今\"}],[\"$\",\"div\",null,{\"children\":[[\"$\",\"h3\",null,{\"children\":\"成都市青白江区人民检察院\"}],[\"$\",\"strong\",null,{\"children\":\"宣传策划\"}]]}],[\"$\",\"p\",null,{\"children\":\"负责普法短视频、漫画、文章与节点专题策划。编剧作品获川渝法治微视频大赛一等奖，策划漫画获四川互联网辟谣优秀作品奖。\"}]]}],[\"$\",\"article\",\"成都华律网络服务有限公司\",{\"children\":[[\"$\",\"span\",null,{\"className\":\"experience-index\",\"children\":[\"0\",2]}],[\"$\",\"time\",null,{\"children\":\"2023.03 — 2024.01\"}],[\"$\",\"div\",null,{\"children\":[[\"$\",\"h3\",null,{\"children\":\"成都华律网络服务有限公司\"}],[\"$\",\"strong\",null,{\"children\":\"短视频运营\"}]]}],[\"$\",\"p\",null,{\"children\":\"运营抖音、快手、视频号、今日头条矩阵，从 0 到 1 搭建直播业务；月产 120 条内容，筛选有效客资 1600+ 条，月均成交额 20 万。\"}]]}],[\"$\",\"article\",\"北京即明律师事务所\",{\"children\":[[\"$\",\"span\",null,{\"className\":\"experience-index\",\"children\":[\"0\",3]}],[\"$\",\"time\",null,{\"children\":\"2021.07 — 2023.02\"}],[\"$\",\"div\",null,{\"children\":[[\"$\",\"h3\",null,{\"children\":\"北京即明律师事务所\"}],[\"$\",\"strong\",null,{\"children\":\"短视频内容运营\"}]]}],[\"$\",\"p\",null,{\"children\":\"主导律师 IP 的选题、脚本、视觉呈现与数据复盘，对流量、增粉和线索转化负责，并建立周期性数据分析体系。\"}]]}]]}]]}]\na:[\"$\",\"section\",null,{\"className\":\"section shell extras\",\"children\":[[\"$\",\"div\",null,{\"className\":\"education\",\"children\":[[\"$\",\"span\",null,{\"children\":\"04 / EDUCATION\"}],[\"$\",\"h2\",null,{\"children\":\"教育背景\"}],[\"$\",\"div\",null,{\"children\":[[\"$\",\"strong\",null,{\"children\":\"南京邮电大学\"}],[\"$\",\"p\",null,{\"children\":\"广告学 · 本科（双一流）\"}],[\"$\",\"time\",null,{\"children\":\"2017 — 2021\"}]]}],[\"$\",\"div\",null,{\"children\":[[\"$\",\"strong\",null,{\"children\":\"南京师范大学\"}],[\"$\",\"p\",null,{\"children\":\"新闻学 · 交换生（211）\"}],[\"$\",\"time\",null,{\"children\":\"2019 — 2020\"}]]}]]}],[\"$\",\"div\",null,{\"className\":\"awards\",\"children\":[[\"$\",\"span\",null,{\"children\":\"CONTENT AWARDS\"}],[\"$\",\"h2\",null,{\"children\":\"作品荣誉\"}],[\"$\",\"ul\",null,{\"children\":[[\"$\",\"li\",null,{\"children\":\"川渝法治微视频大赛一等奖\"}],[\"$\",\"li\",null,{\"children\":\"四川互联网辟谣优秀作品奖\"}],[\"$\",\"li\",null,{\"children\":\"作品被《检察日报》等媒体刊登或转载\"}]]}]]}]]}]\n")</script><script>self.__VINEXT_RSC_CHUNKS__=self.__VINEXT_RSC_CHUNKS__||[];self.__VINEXT_RSC_CHUNKS__.push("b:[\"$\",\"section\",null,{\"id\":\"contact\",\"className\":\"contact-section\",\"children\":[\"$\",\"div\",null,{\"className\":\"shell contact-inner\",\"children\":[[\"$\",\"div\",null,{\"children\":[[\"$\",\"span\",null,{\"children\":\"LET'S MAKE SOMETHING GOOD\"}],[\"$\",\"h2\",null,{\"children\":[\"期待和认真做内容的团队，\",[\"$\",\"br\",null,{}],\"一起创造下一条好作品。\"]}]]}],[\"$\",\"div\",null,{\"className\":\"contact-card\",\"children\":[[\"$\",\"span\",null,{\"children\":\"求职方向\"}],[\"$\",\"strong\",null,{\"children\":\"内容运营 / 短视频运营\"}],[\"$\",\"span\",null,{\"children\":\"所在城市\"}],[\"$\",\"strong\",null,{\"children\":\"成都\"}],[\"$\",\"a\",null,{\"href\":\"mailto:1968532942@qq.com\",\"children\":\"1968532942@qq.com ↗\"}],[\"$\",\"p\",null,{\"children\":\"电话与微信可在沟通后提供\"}]]}]]}]}]\nc:[\"$\",\"footer\",null,{\"children\":[\"$\",\"div\",null,{\"className\":\"shell\",\"children\":[[\"$\",\"span\",null,{\"children\":\"© 2026 ZHANG JING\"}],[\"$\",\"span\",null,{\"children\":\"CONTENT CREATOR PORTFOLIO\"}]]}]}]\n")</script><script>self.__VINEXT_RSC_DONE__=true</script>
